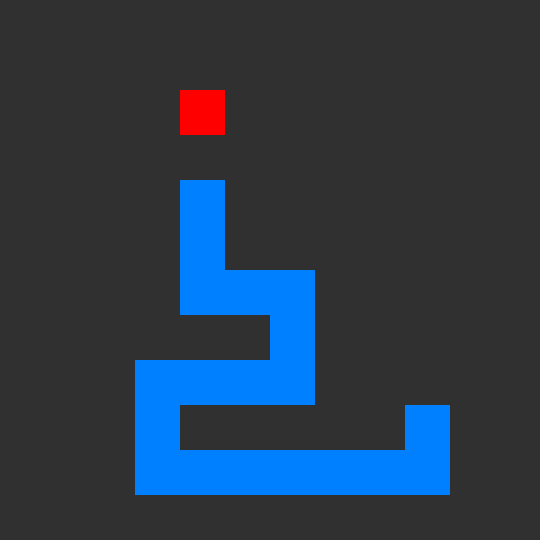
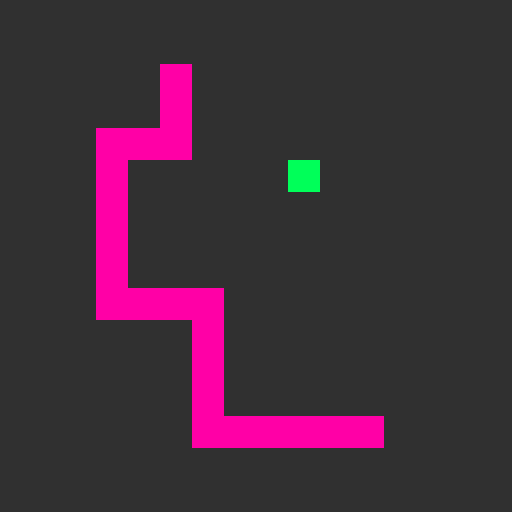
design changes

Changed region(s): [[0.1875, 0.125, 0.8438, 0.9375], [0.5625, 0.3125, 0.625, 0.375]]

diff --git a/snake/script.js b/snake/script.js
@@ -10,8 +10,8 @@ const context = canvas.getContext("2d")
 canvas.width = 512
 canvas.height = 512
 
-const foodColor = "#ff0000"
-const snakeColor = "#0080ff"
+const foodColor = "#00FF59"
+const snakeColor = "#FF00A6"
 const backgroundColor = "#303030"
 
 const gridDimensions = { x: 24, y: 24 }
@@ -80,6 +80,8 @@ window.addEventListener("keydown", (event) => {
 window.addEventListener("resize", () => {
     sizeCanvas()
 })
+
+restartButton.addEventListener("click", restart)
 
 setInterval(() => {
     if (paused == false) {
